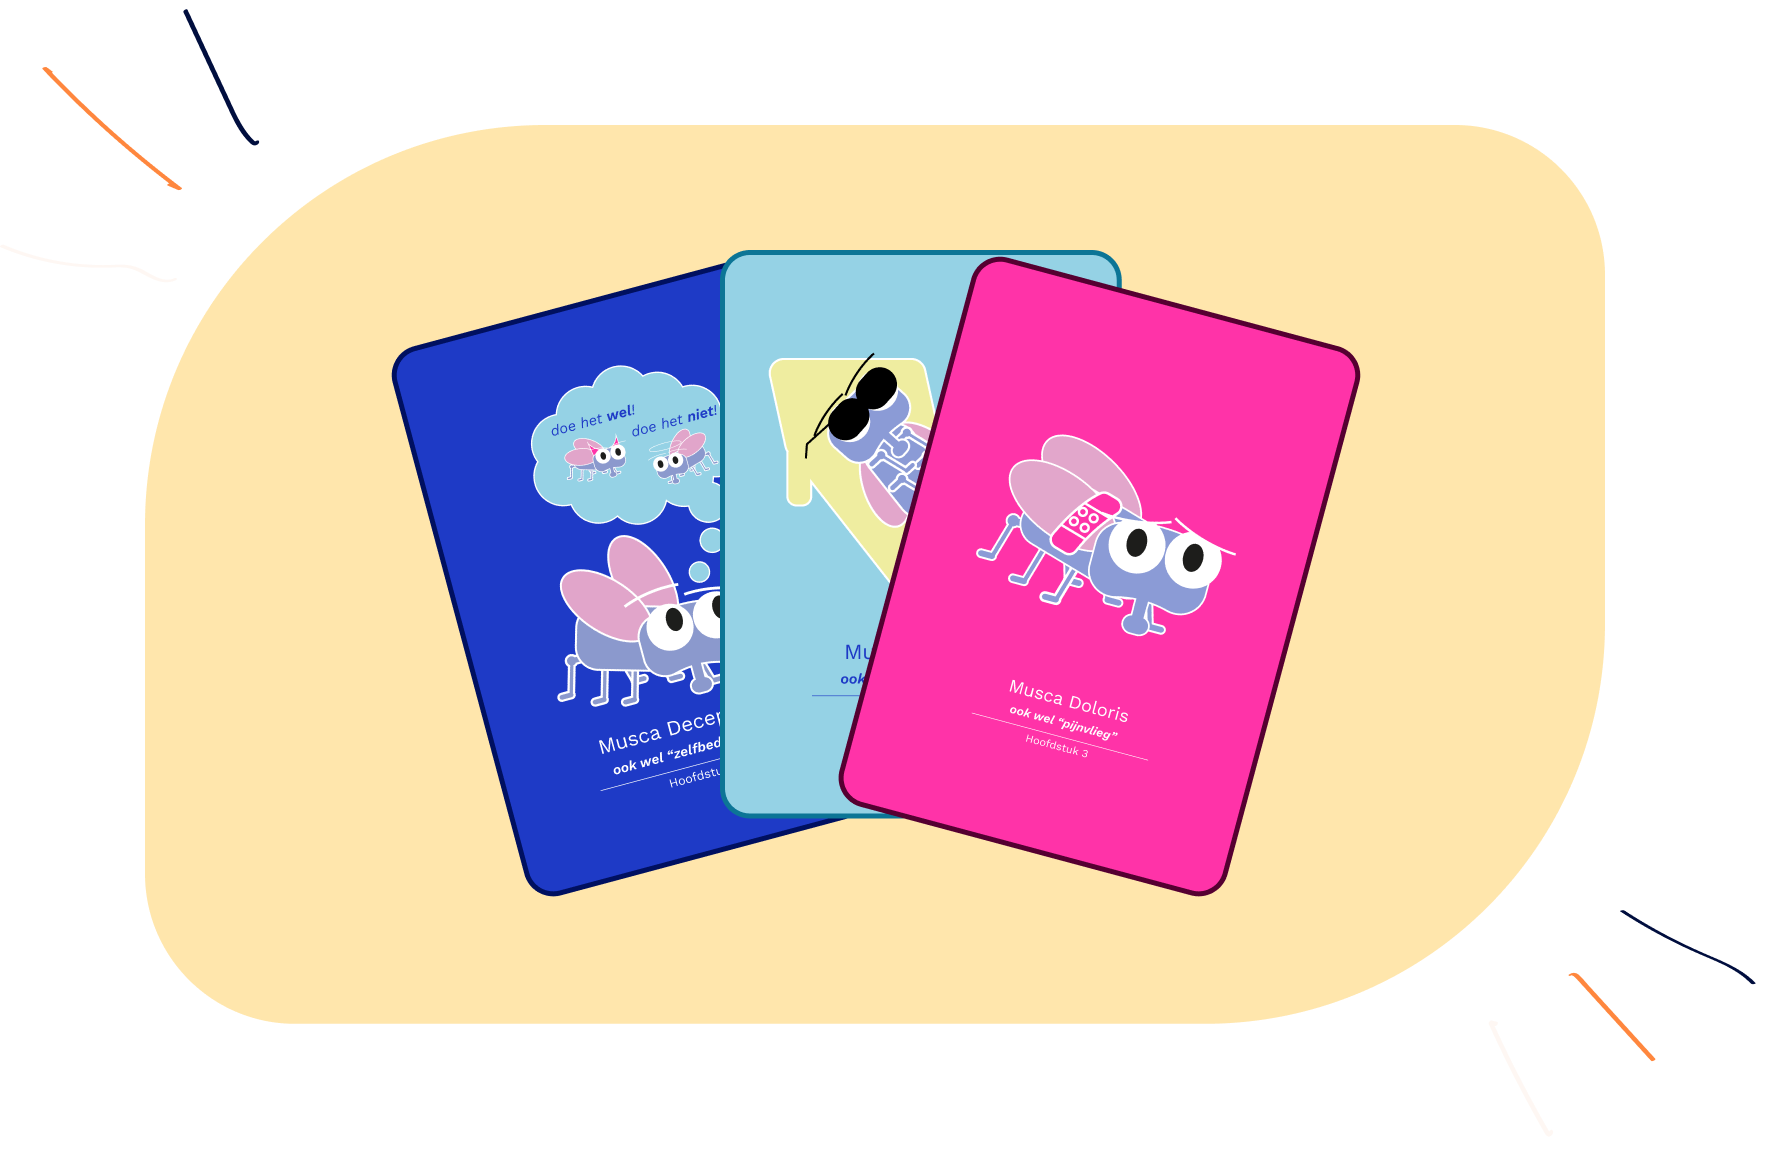
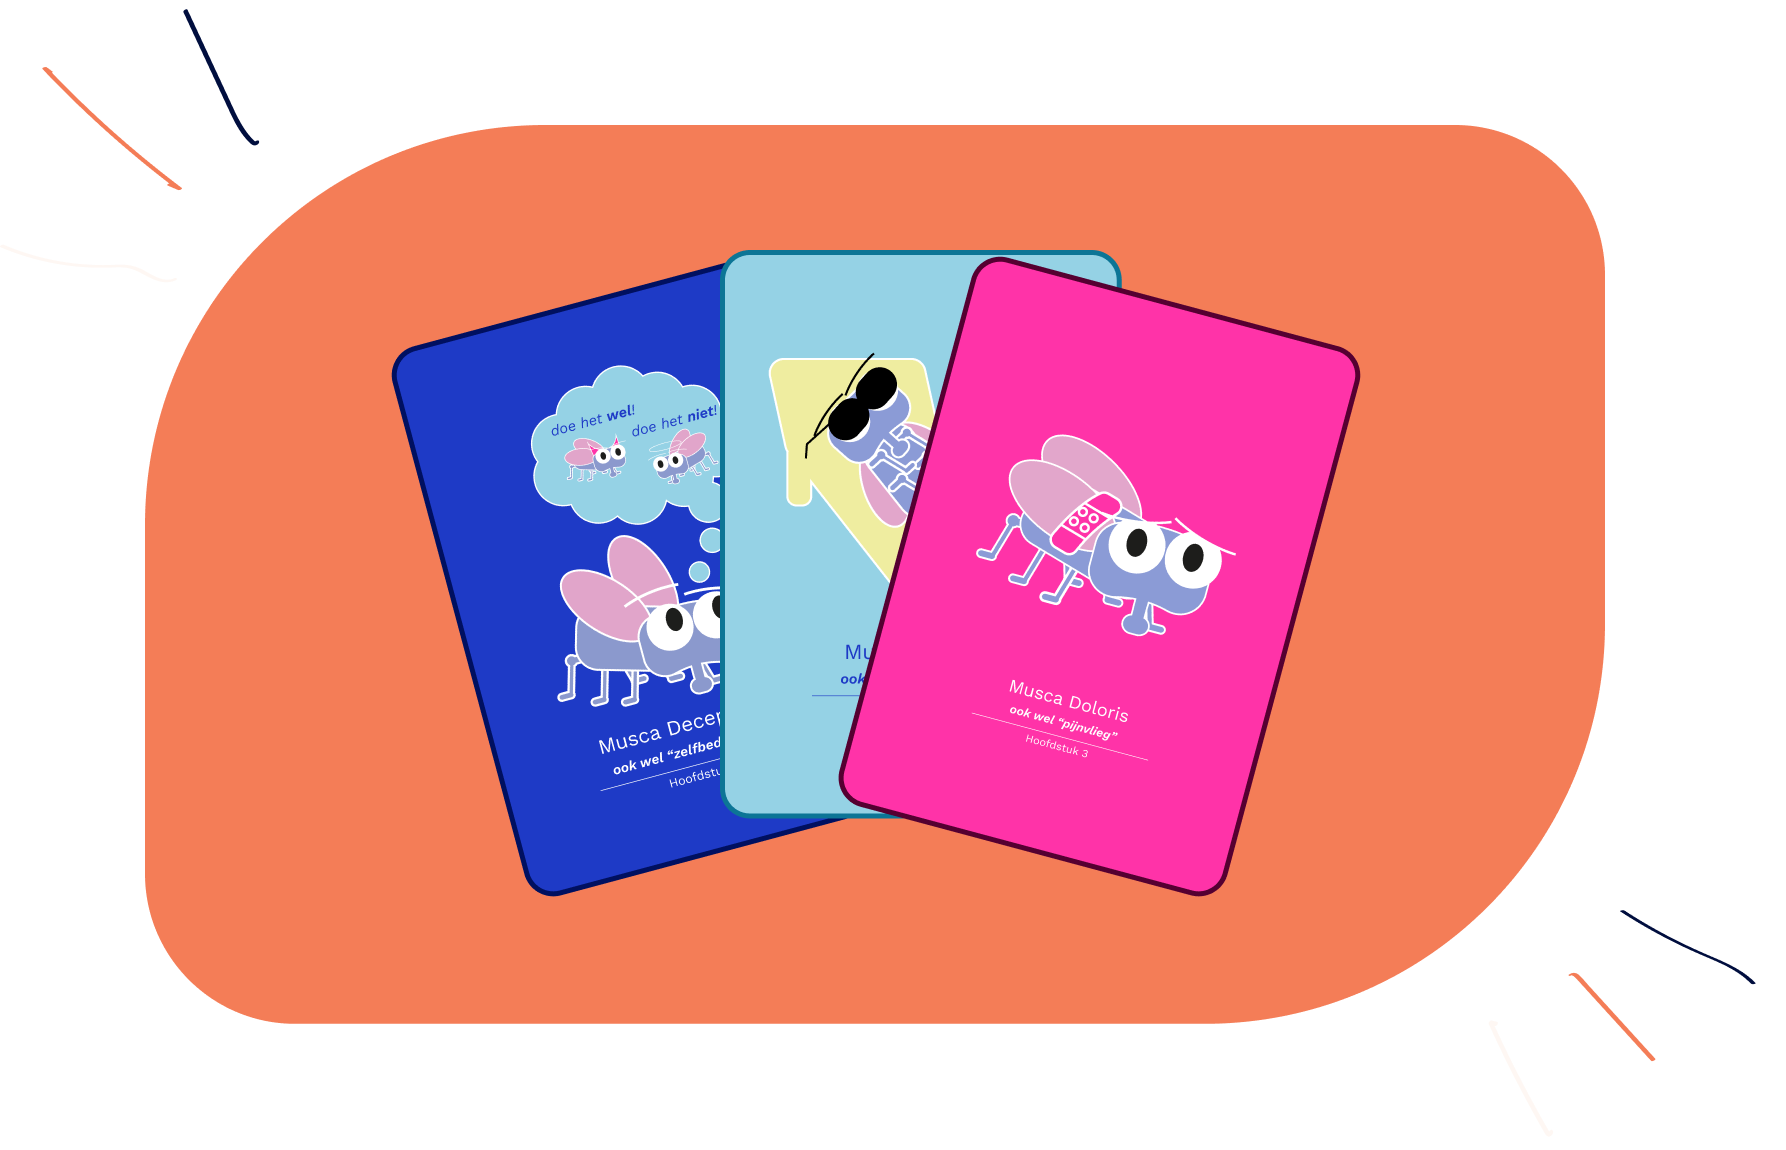
Add files via upload

diff --git a/styles/styles.css b/styles/styles.css
@@ -49,21 +49,21 @@ a{
 }
 
 a.link{
-    background: linear-gradient(#86B8FD 0%, #86B8FD 100%); 
+    background: linear-gradient(#CEE1FB 0%, #CEE1FB 100%); 
     background-position: 0 100%;
     background-repeat: repeat-x;
     background-size: 1em 0.3em;
     color: #000;
     text-decoration: none;
+    transition: background-size .2s cubic-bezier(0,1,.35,1);
 }
 
 a.link:hover{
     background-size: 1em 1.2em;    
-    transition: background-size .2s;
 }
 
 a.button{
-    background-color:#FF873E;
+    background-color:#F47D57;
     min-width: 7em;
 }
 
@@ -211,7 +211,7 @@ body section#top img{
 /*section 2, about me css*/
 body section#aboutme{
     width: 100vw;
-    background: #FF873E;
+    background: #F47D57;
     display: flex;
     flex-direction: column;
 }
@@ -234,7 +234,7 @@ body section#aboutme span img{
 
 /*section 3, my work css*/
 body section#mywork{
-    background: #86B8FD;
+    background: #CEE1FB;
 }
 
 body section#mywork a{
@@ -340,7 +340,7 @@ body.detail section.process > div:first-of-type > div > img, body.detail section
 }
 
 body.detail section.a11y{
-    background: #FEF7F3 url(../img/achtergrond-a11y.png);
+    background: #CEE1FB url(../img/achtergrond-a11y.png);
     background-repeat: no-repeat;
     background-size: cover;
 }
@@ -352,7 +352,7 @@ body.detail section.a11y > div:last-of-type{
 }
 
 body.detail section.carddeck{
-    background: #86B8FD url(../img/achtergrond-carddeck.png);
+    background: #CEE1FB url(../img/achtergrond-carddeck.png);
     background-repeat: repeat-x;
     background-size: contain;
 }
@@ -367,7 +367,7 @@ body.detail section.solution{
 }
 
 body.detail section:nth-of-type(3){
-    background: #FF873E;
+    background: #F47D57;
 }
 
 body.detail section.solution div{
@@ -384,7 +384,7 @@ body.detail section.solution div img{
 /*rythm ritje sectie 3, before and after situation css*/
 
 body.detail section.before_after {
-    background: #FF873E
+    background: #F47D57
 }
 
 body.detail section.before_after img{
@@ -416,7 +416,7 @@ body.detail section.process div:nth-of-type(1)> img, body.detail section.process
 /*section cinqoooo, appscreens*/
 
 body.detail section.endwork{
-    background: #FF873E;
+    background: #F47D57;
 }
 
 /*footer css*/

diff --git a/index.html b/index.html
@@ -29,8 +29,9 @@
         <section id="top">
             <span>
                 <div>
-                    <h1>Hi, I'm Noa 👋</h1>
+                    <h1>Hi, I'm Noa</h1>
                     <h2>UX designer & researcher</h2>
+                    <h4>looking for a job in UX design or research</h4>
                 </div>
                 <img src="img/Noa-photo-section1.png" alt="photo of me posing on my vacation this summer">
             </span>

diff --git a/carddeck-bd.html b/carddeck-bd.html
@@ -42,7 +42,7 @@
                 </p>
             </div>
         </section>
-        <section class="process" style="background: #FF873E;">
+        <section class="process" style="background: #F47D57;">
             <div>
                 <div>
                     <h4>
